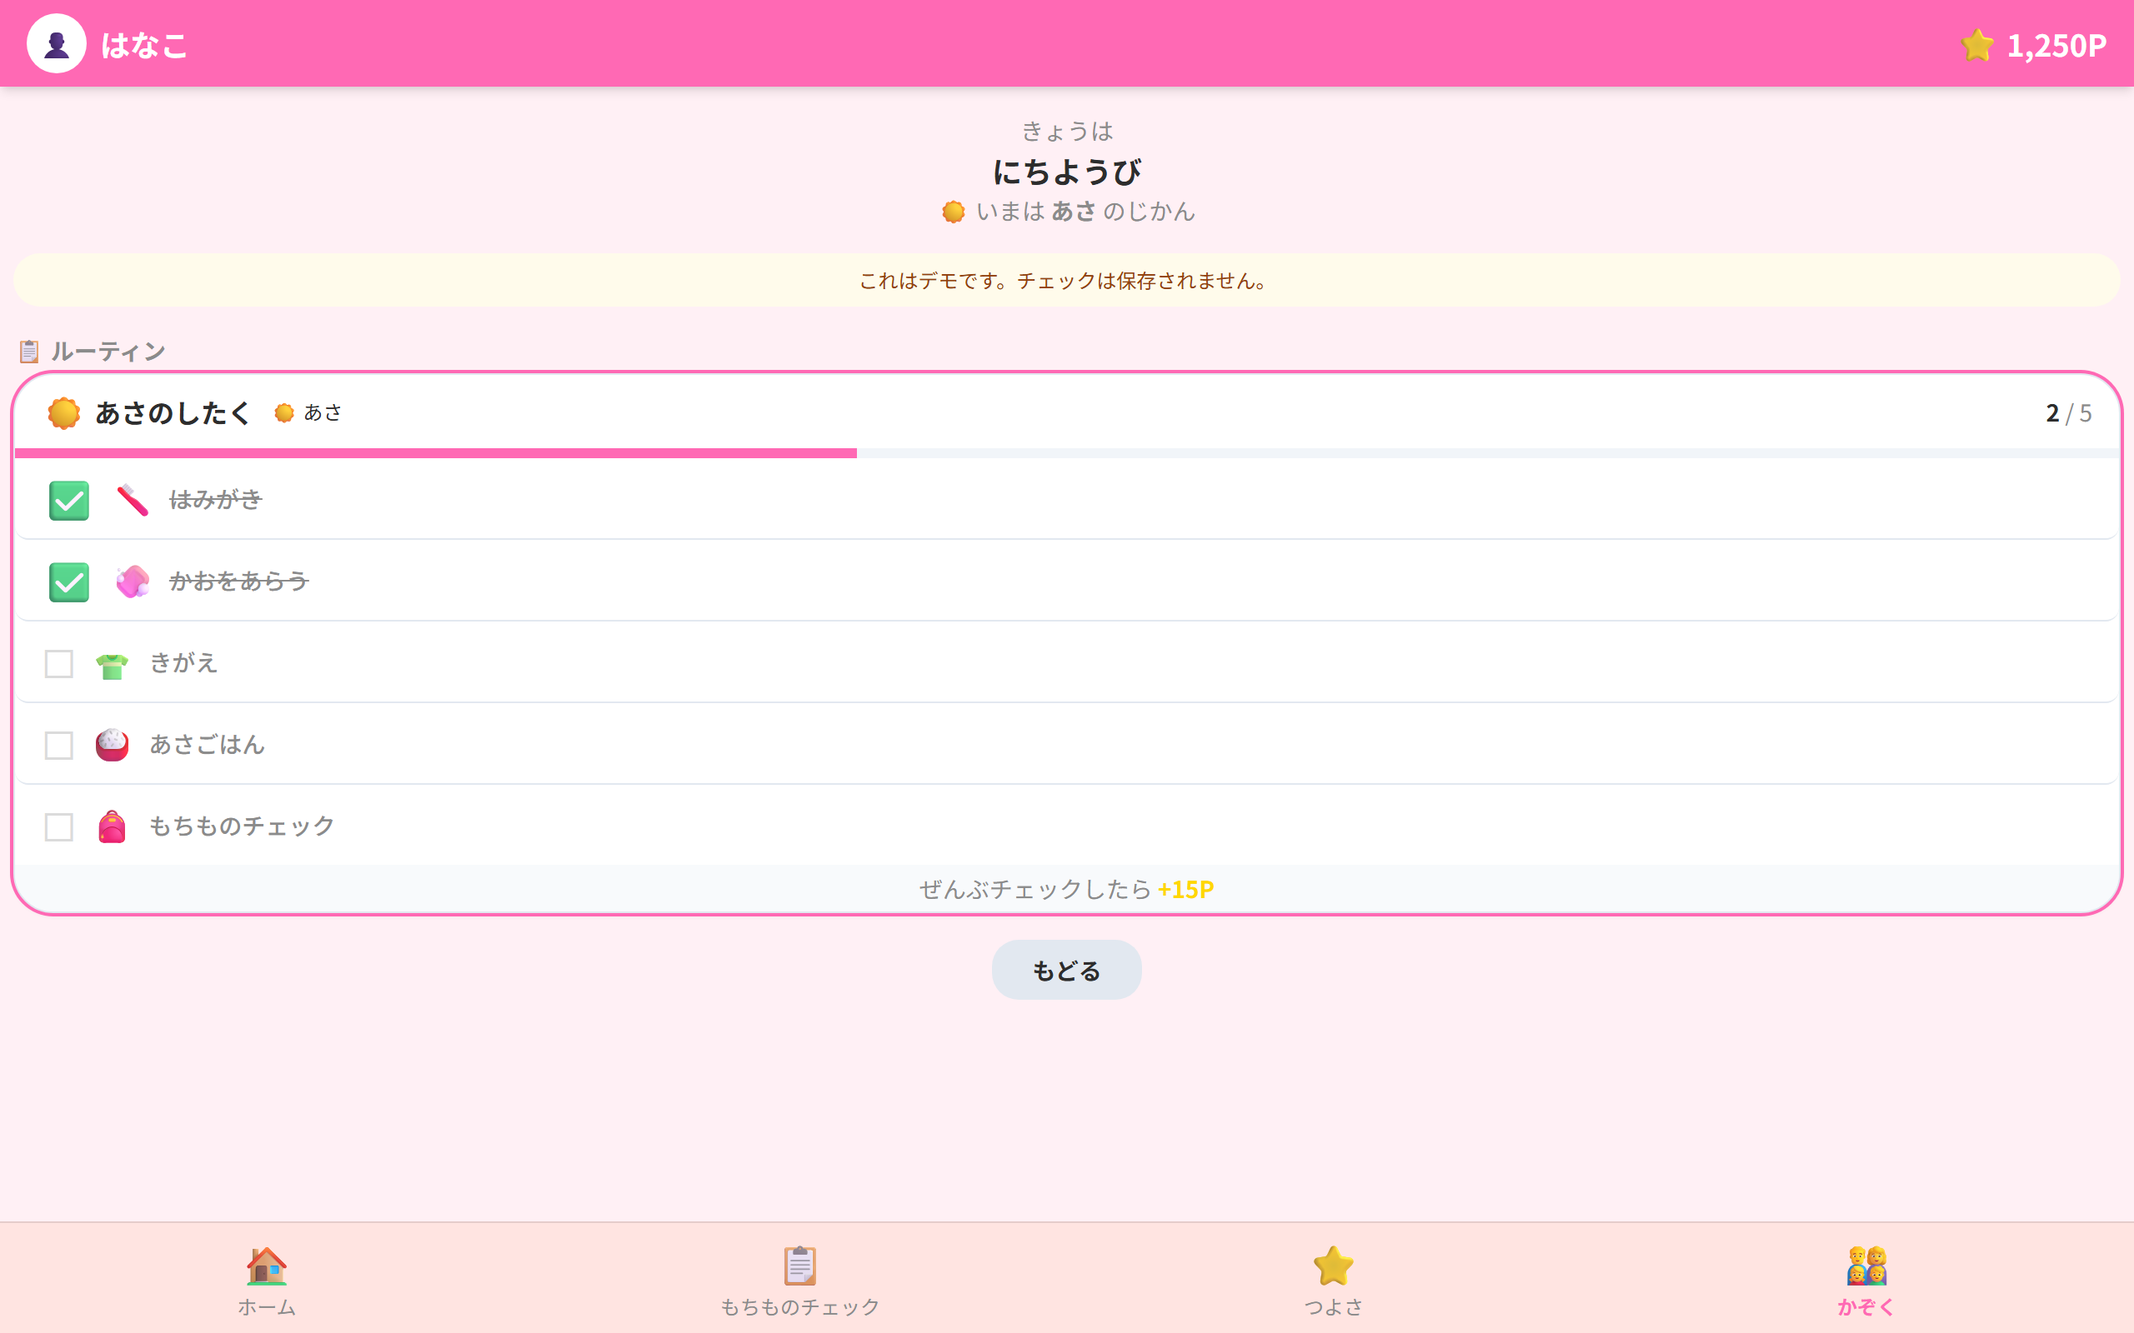
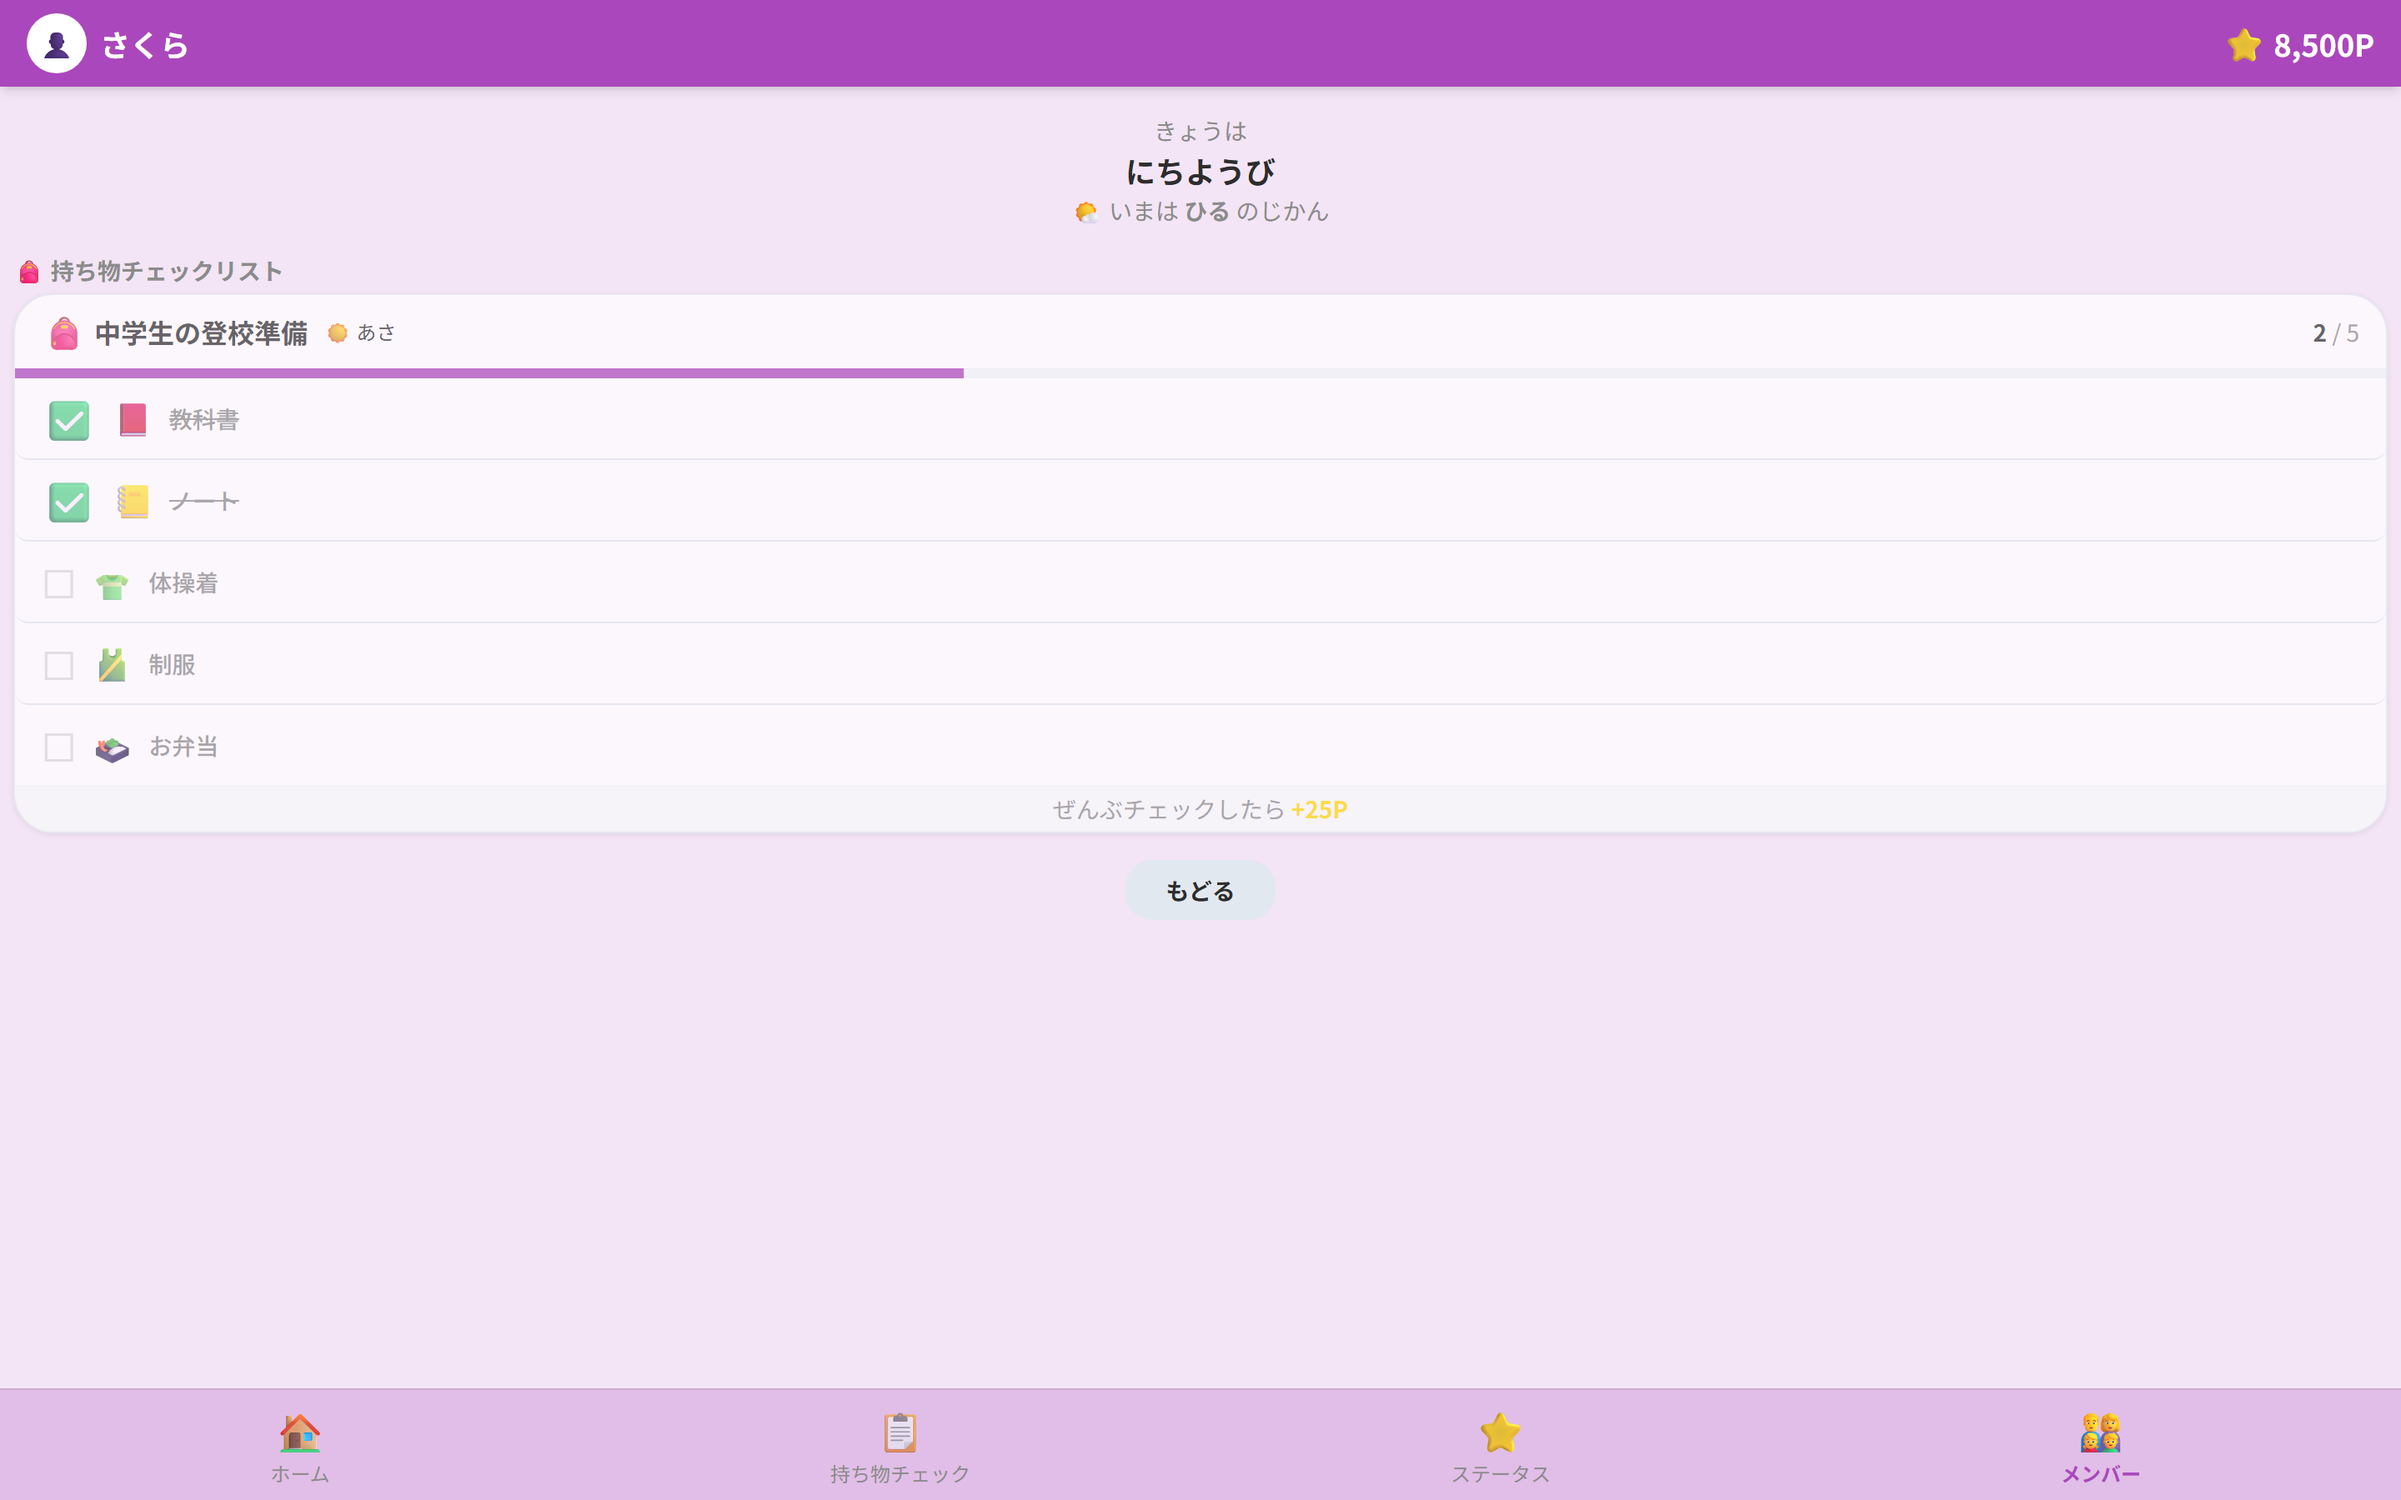
fix: #1164 2nd-pass — 持ち物 SS から黄色 demo notice 除去 + item グループを確実に映す
QM 独立レビュー (agentId af68c56b2d532b4e3) で NEEDS_FIX blocker 2 件を本 PR 内で解消。

修正 1: /demo/checklist の黄色「これはデモです」notice を ?screenshot=1 で非表示
- page.svelte 側で $page store から isScreenshotMode を再導出 (layout と同じ派生式)
- {#if !isScreenshotMode} で構造的にガード (CSS display:none hack ではない)
- layout -> page の props/context 経由は scope 過大のため band-aid 踏襲

修正 2: capture-hp-screenshots.mjs で持ち物 (item) グループが確実に画面内に映る
- デフォルト childId=902 には item kind テンプレートがなく routine のみ表示だった
- childId=904 (中学生の登校準備: 教科書・体操着・弁当) を URL で明示指定
- scrollTo: '[data-testid="checklist-group-item"]' で位置固定
- +page.svelte に data-testid="checklist-group-{kind}" を追加 (本番/デモ両方)

LP 訴求コピー「通学・習い事の持ち物を、子ども自身がタップ確認」と
撮影される webp の被写体が完全一致することを mobile/desktop 両方で目視確認済み。

verification 画像: docs/screenshots/1164-belongings-ss-verification/
- feature-belongings-checklist-mobile.png (390x844@2x)
- feature-belongings-checklist-desktop.png (1440x900@2x)

diff --git a/src/routes/demo/(child)/checklist/+page.svelte b/src/routes/demo/(child)/checklist/+page.svelte
@@ -1,6 +1,7 @@
 <script lang="ts">
 // #704: デモ画面のもちものチェック (本番 src/routes/(child)/checklist/+page.svelte に相当)
 // 書き込みは行わず、UI 操作はクライアント側の $state でのみ反映する。
+import { page } from '$app/stores';
 import {
 	CHECKLIST_KIND_ICONS,
 	CHECKLIST_KIND_LABELS,
@@ -12,6 +13,11 @@ import Button from '$lib/ui/primitives/Button.svelte';
 import Card from '$lib/ui/primitives/Card.svelte';
 
 let { data } = $props();
+
+// #1164: LP スクリーンショット撮影用モード。`?screenshot=1` で黄色のデモ注意書きを非表示にする。
+// `src/routes/demo/+layout.svelte:19-22` と同じ派生式を page 側で再導出。
+// layout -> page への props/context 経由は scope 過大のため band-aid を踏襲。
+const isScreenshotMode = $derived($page.url.searchParams.get('screenshot') === '1');
 
 const ps = $derived(data.pointSettings);
 const fmtPts = (pts: number) => formatPointValueWithSign(pts, ps.mode, ps.currency, ps.rate);
@@ -96,10 +102,12 @@ function toggleItem(templateId: number, itemId: number) {
 		</p>
 	</div>
 
-	<!-- デモ注意書き -->
-	<div class="mb-[var(--sp-md)] p-[var(--sp-sm)] rounded-[var(--radius-md)] bg-[var(--color-surface-warning)] text-xs text-[var(--color-text-warm)] text-center">
-		これはデモです。チェックは保存されません。
-	</div>
+	<!-- デモ注意書き (LP SS 撮影時 (`?screenshot=1`) は非表示にする: #1164) -->
+	{#if !isScreenshotMode}
+		<div class="mb-[var(--sp-md)] p-[var(--sp-sm)] rounded-[var(--radius-md)] bg-[var(--color-surface-warning)] text-xs text-[var(--color-text-warm)] text-center">
+			これはデモです。チェックは保存されません。
+		</div>
+	{/if}
 
 	{#if localChecklists.length === 0}
 		<div class="flex flex-col items-center justify-center py-[var(--sp-2xl)] text-[var(--color-text-muted)]">
@@ -109,7 +117,10 @@ function toggleItem(templateId: number, itemId: number) {
 		</div>
 	{:else}
 		{#each groupedChecklists as group (group.kind)}
-			<h2 class="text-sm font-bold text-[var(--color-text-muted)] mb-[var(--sp-xs)] mt-[var(--sp-md)] first:mt-0">
+			<h2
+				class="text-sm font-bold text-[var(--color-text-muted)] mb-[var(--sp-xs)] mt-[var(--sp-md)] first:mt-0"
+				data-testid="checklist-group-{group.kind}"
+			>
 				{CHECKLIST_KIND_ICONS[group.kind]} {CHECKLIST_KIND_LABELS[group.kind]}
 			</h2>
 			{#each group.lists as checklist (checklist.templateId)}

diff --git a/src/routes/(child)/checklist/+page.svelte b/src/routes/(child)/checklist/+page.svelte
@@ -96,7 +96,10 @@ const groupedChecklists = $derived(
 	{:else}
 		{#each groupedChecklists as group (group.kind)}
 			<!-- #1168: 種別見出し -->
-			<h2 class="text-base font-bold mt-[var(--sp-md)] mb-[var(--sp-xs)] px-[var(--sp-xs)] text-[var(--color-text-secondary)]">
+			<h2
+				class="text-base font-bold mt-[var(--sp-md)] mb-[var(--sp-xs)] px-[var(--sp-xs)] text-[var(--color-text-secondary)]"
+				data-testid="checklist-group-{group.kind}"
+			>
 				{CHECKLIST_KIND_ICONS[group.kind]} {CHECKLIST_KIND_LABELS[group.kind]}
 			</h2>
 			{#each group.lists as checklist (checklist.templateId)}
